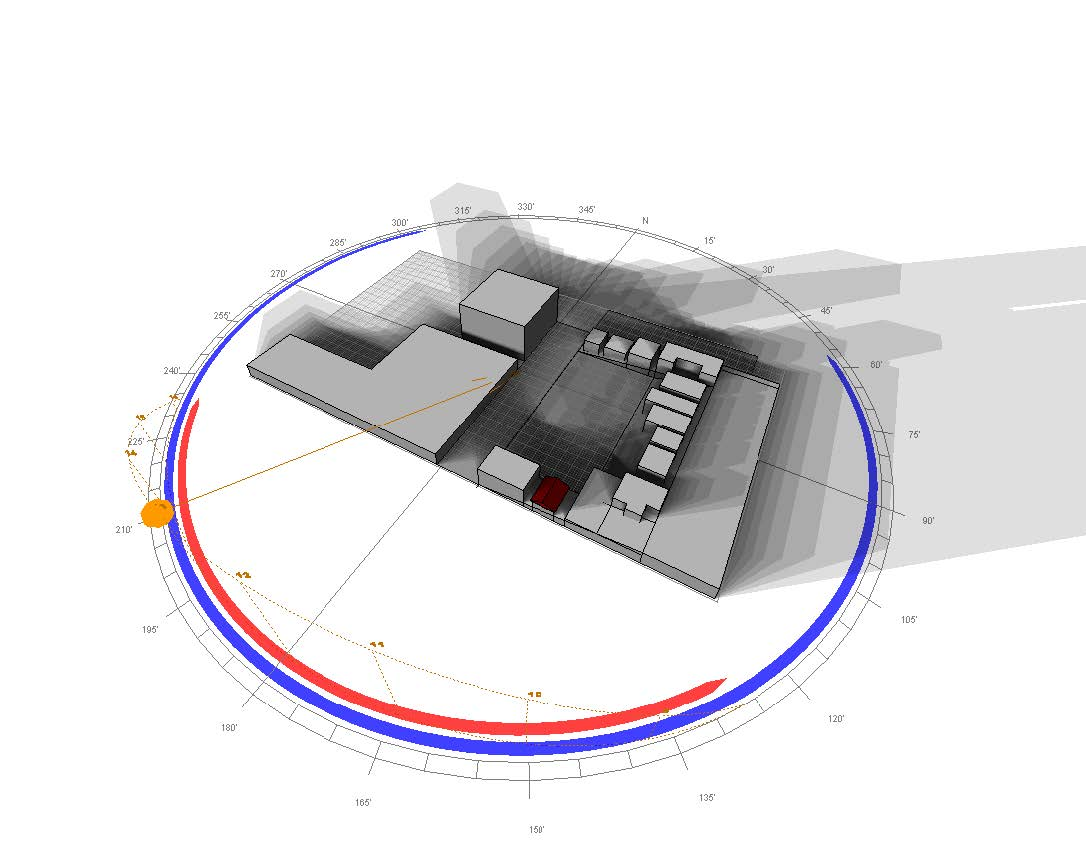
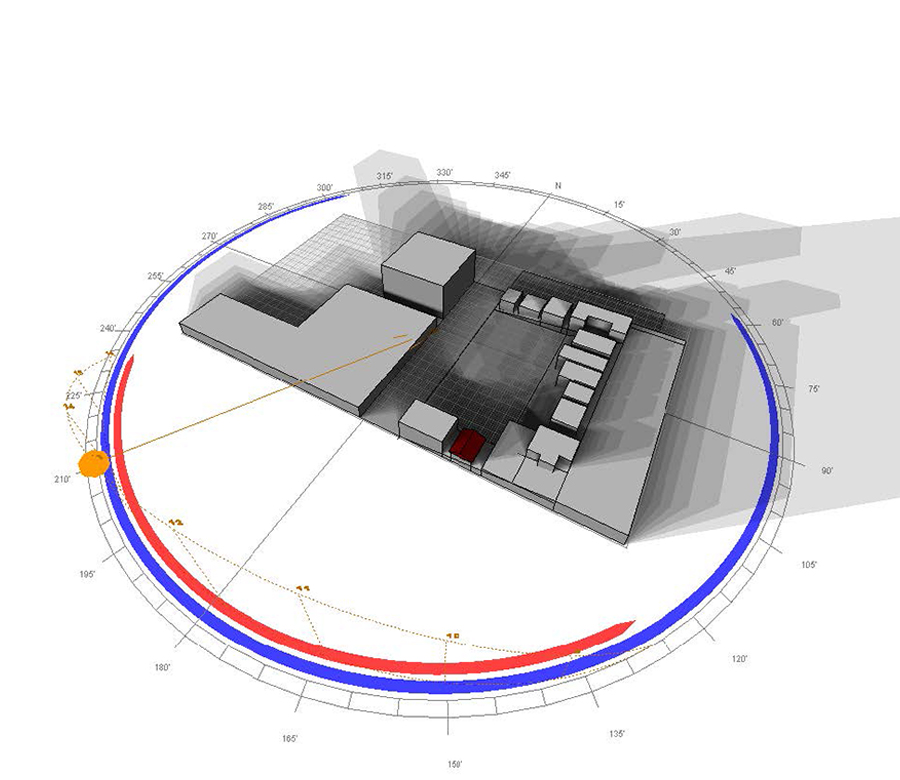
created light-study page

diff --git a/css/style.css b/css/style.css
@@ -1,10 +1,31 @@
 html {
   box-sizing: border-box;
   overflow-x: hidden;
-
 }
 *, *:before, *:after {
   box-sizing: inherit;
+}
+
+body{
+  min-width: 1440px;
+}
+
+/* Grow */
+.hvr-grow {
+    display: inline-block;
+    vertical-align: middle;
+    transform: translateZ(0);
+    box-shadow: 0 0 1px rgba(0, 0, 0, 0);
+    backface-visibility: hidden;
+    -moz-osx-font-smoothing: grayscale;
+    transition-duration: 0.3s;
+    transition-property: transform;
+}
+
+.hvr-grow:hover,
+.hvr-grow:focus,
+.hvr-grow:active {
+    transform: scale(1.1);
 }
 
 section{
@@ -181,13 +202,6 @@ nav{
   z-index: 5;
 }
 
-.divider3{
-  width: 100%;
-  height: 800px;
-  background-color: rgba(255, 255, 200, 1);
-  margin-top: -5px;
-  z-index: 1;
-}
 
 .location{
   color: rgba(255, 255, 255, 1);
@@ -379,6 +393,68 @@ h1{
         opacity: 1;
         top: 1900px;
         left: 250px;
+    }
+
+}
+
+.divider3{
+  width: 100%;
+  height: 800px;
+  background-color: rgba(255, 255, 255, 1);
+  margin-top: -5px;
+  z-index: 0;
+}
+
+.site{
+  color: rgba(255, 100, 0, 1);
+  border-color: rgba(255, 100, 0, 1);
+  top: 50px;
+  -skrollr-animation-name: siteAnimation;
+}
+
+.ls{
+  width: 300px;
+  margin-top: 200px;
+  margin-left: 50px;
+  margin-right: 50px;
+}
+
+.light-study{
+  position: absolute;
+  top: 200px;
+  -skrollr-animation-name: lightStudyAnimation;
+}
+
+.ls-label{
+  display: inline-block;
+  margin-left: 110px;
+  margin-right: 110px;
+  color: rgba(255, 100, 0, 1);
+
+}
+
+@-skrollr-keyframes siteAnimation {
+    3900 {
+        opacity: 0.8;
+        left: 70%;
+    }
+
+    4400 {
+        opacity: 1;
+        left: 15%;
+    }
+
+}
+
+@-skrollr-keyframes lightStudyAnimation {
+    4200 {
+        opacity: 0.8;
+        left: 0%;
+    }
+
+    5000 {
+        opacity: 1;
+        left: 10%;
     }
 
 }

diff --git a/index.html b/index.html
@@ -46,7 +46,15 @@
     </section>
     <div class="divider"></div>
     <section class="structurePage">
-      <div class="divider3"></div>
+      <h1 class="title site">site studies</h1>
+      <div class="light-study">
+        <img class="ls hvr-grow" src="img/lightStudyDec21.jpg" alt="lightStudy1" />
+        <img class="ls hvr-grow" src="img/lightStudySept21.jpg" alt="lightStudy2" />
+        <img class="ls hvr-grow" src="img/lightStudyJun21.jpg" alt="lightStudy3" />
+        <h3 class="ls-label"> Light Study Dec 21</h3>
+        <h3 class="ls-label"> Light Study Sept 21</h3>
+        <h3 class="ls-label"> Light Study Jun 21</h3>
+      </div>
     </section>
     <section class="renderPage">
 
